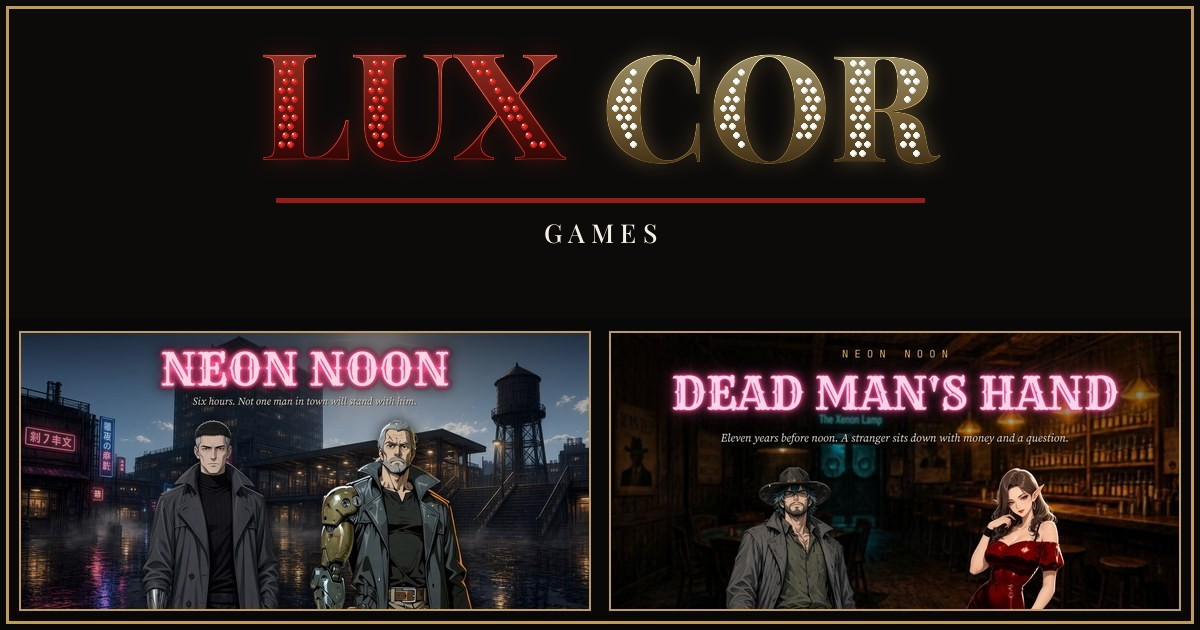
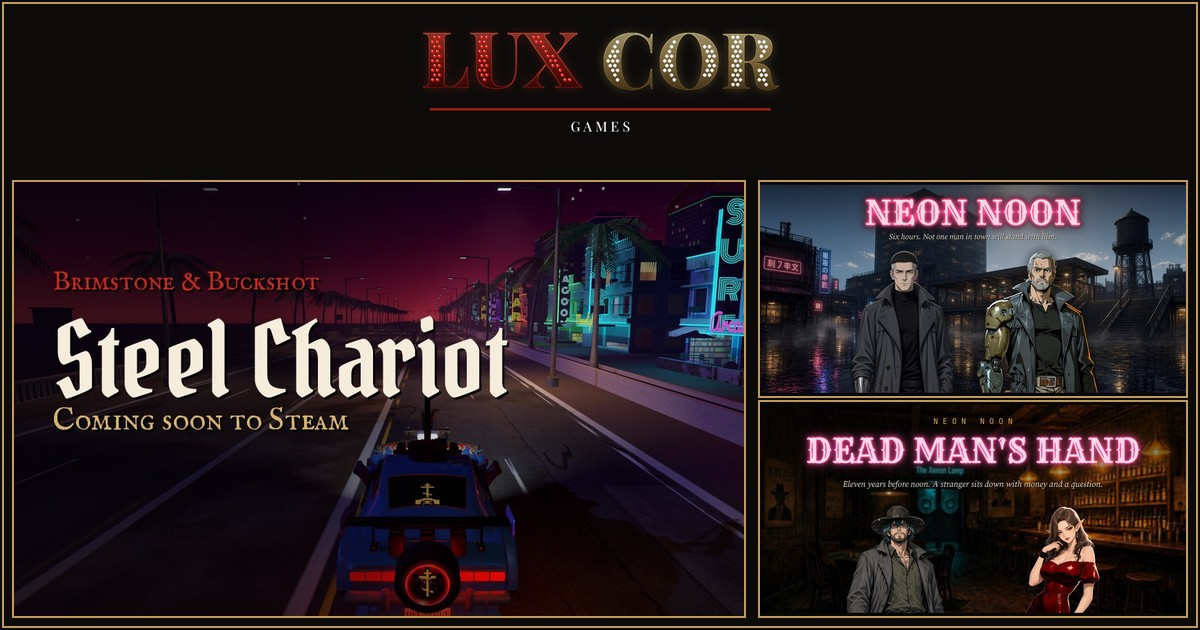
Home share card features Steel Chariot (big, left) with Neon Noon and Dead Man's Hand; share tag bumped
Claude-Session: https://claude.ai/code/session_01PcS7mfbPEmVEGSSqDjLZ7v

diff --git a/no-people-no-stories.html b/no-people-no-stories.html
@@ -10,7 +10,7 @@
 <meta property="og:title" content="No People, No Stories · Lux Cor Games">
 <meta property="og:description" content="An endless liminal ASMR walk through empty places. Pools, garages, a night mall, an Egyptian temple, Neon Noon's rain-soaked Sundown. Nobody else is here. Free on Windows, Linux and Android.">
 <meta property="og:url" content="https://irlgames.github.io/no-people-no-stories.html">
-<meta property="og:image" content="https://irlgames.github.io/assets/img/og_npns.jpg?v=20261115">
+<meta property="og:image" content="https://irlgames.github.io/assets/img/og_npns.jpg?v=20261115b">
 <meta property="og:image:width" content="1200">
 <meta property="og:image:height" content="630">
 <meta property="og:image:alt" content="No People, No Stories · Lux Cor Games">
@@ -19,7 +19,7 @@
 <meta name="twitter:site" content="@LuxCorMedia">
 <meta name="twitter:title" content="No People, No Stories · Lux Cor Games">
 <meta name="twitter:description" content="An endless liminal ASMR walk through empty places. Pools, garages, a night mall, an Egyptian temple, Neon Noon's rain-soaked Sundown. Nobody else is here. Free on Windows, Linux and Android.">
-<meta name="twitter:image" content="https://irlgames.github.io/assets/img/og_npns.jpg?v=20261115">
+<meta name="twitter:image" content="https://irlgames.github.io/assets/img/og_npns.jpg?v=20261115b">
 <meta name="twitter:image:alt" content="No People, No Stories · Lux Cor Games">
 <link rel="canonical" href="https://irlgames.github.io/no-people-no-stories.html">
 <meta name="theme-color" content="#941D16">

diff --git a/steel-chariot.html b/steel-chariot.html
@@ -10,7 +10,7 @@
 <meta property="og:title" content="Brimstone & Buckshot: Steel Chariot · Lux Cor Games">
 <meta property="og:description" content="Zombie-smashing car combat. Weld a cross to the plow, fill the tank with Holy Fire, and drive through the damned. Coming soon to Steam for Windows, Linux and SteamOS.">
 <meta property="og:url" content="https://irlgames.github.io/steel-chariot.html">
-<meta property="og:image" content="https://irlgames.github.io/assets/img/og_bb.jpg?v=20261115">
+<meta property="og:image" content="https://irlgames.github.io/assets/img/og_bb.jpg?v=20261115b">
 <meta property="og:image:width" content="1200">
 <meta property="og:image:height" content="630">
 <meta property="og:image:alt" content="Brimstone & Buckshot: Steel Chariot · Lux Cor Games">
@@ -19,7 +19,7 @@
 <meta name="twitter:site" content="@LuxCorMedia">
 <meta name="twitter:title" content="Brimstone & Buckshot: Steel Chariot · Lux Cor Games">
 <meta name="twitter:description" content="Zombie-smashing car combat. Weld a cross to the plow, fill the tank with Holy Fire, and drive through the damned. Coming soon to Steam for Windows, Linux and SteamOS.">
-<meta name="twitter:image" content="https://irlgames.github.io/assets/img/og_bb.jpg?v=20261115">
+<meta name="twitter:image" content="https://irlgames.github.io/assets/img/og_bb.jpg?v=20261115b">
 <meta name="twitter:image:alt" content="Brimstone & Buckshot: Steel Chariot · Lux Cor Games">
 <link rel="canonical" href="https://irlgames.github.io/steel-chariot.html">
 <meta name="theme-color" content="#941D16">

diff --git a/dead-mans-hand.html b/dead-mans-hand.html
@@ -10,7 +10,7 @@
 <meta property="og:title" content="Neon Noon: Dead Man's Hand · Lux Cor Games">
 <meta property="og:description" content="The poker prequel to Neon Noon. Eleven years before noon. A stranger sits down with money and a question. On Google Play now, coming to Steam.">
 <meta property="og:url" content="https://irlgames.github.io/dead-mans-hand.html">
-<meta property="og:image" content="https://irlgames.github.io/assets/img/og_dmh.jpg?v=20261115">
+<meta property="og:image" content="https://irlgames.github.io/assets/img/og_dmh.jpg?v=20261115b">
 <meta property="og:image:width" content="1200">
 <meta property="og:image:height" content="630">
 <meta property="og:image:alt" content="Neon Noon: Dead Man's Hand · Lux Cor Games">
@@ -19,7 +19,7 @@
 <meta name="twitter:site" content="@LuxCorMedia">
 <meta name="twitter:title" content="Neon Noon: Dead Man's Hand · Lux Cor Games">
 <meta name="twitter:description" content="The poker prequel to Neon Noon. Eleven years before noon. A stranger sits down with money and a question. On Google Play now, coming to Steam.">
-<meta name="twitter:image" content="https://irlgames.github.io/assets/img/og_dmh.jpg?v=20261115">
+<meta name="twitter:image" content="https://irlgames.github.io/assets/img/og_dmh.jpg?v=20261115b">
 <meta name="twitter:image:alt" content="Neon Noon: Dead Man's Hand · Lux Cor Games">
 <link rel="canonical" href="https://irlgames.github.io/dead-mans-hand.html">
 <meta name="theme-color" content="#941D16">

diff --git a/index.html b/index.html
@@ -10,7 +10,7 @@
 <meta property="og:title" content="Lux Cor Games">
 <meta property="og:description" content="Games by Lux Cor Games: Brimstone & Buckshot: Steel Chariot, coming soon to Steam; Neon Noon and Neon Noon: Dead Man's Hand, on Google Play now and coming to Steam, and No People, No Stories, free now.">
 <meta property="og:url" content="https://irlgames.github.io/">
-<meta property="og:image" content="https://irlgames.github.io/assets/img/og_home.jpg?v=20261115">
+<meta property="og:image" content="https://irlgames.github.io/assets/img/og_home.jpg?v=20261115b">
 <meta property="og:image:width" content="1200">
 <meta property="og:image:height" content="630">
 <meta property="og:image:alt" content="Lux Cor Games">
@@ -19,7 +19,7 @@
 <meta name="twitter:site" content="@LuxCorMedia">
 <meta name="twitter:title" content="Lux Cor Games">
 <meta name="twitter:description" content="Games by Lux Cor Games: Brimstone & Buckshot: Steel Chariot, coming soon to Steam; Neon Noon and Neon Noon: Dead Man's Hand, on Google Play now and coming to Steam, and No People, No Stories, free now.">
-<meta name="twitter:image" content="https://irlgames.github.io/assets/img/og_home.jpg?v=20261115">
+<meta name="twitter:image" content="https://irlgames.github.io/assets/img/og_home.jpg?v=20261115b">
 <meta name="twitter:image:alt" content="Lux Cor Games">
 <link rel="canonical" href="https://irlgames.github.io/">
 <meta name="theme-color" content="#941D16">

diff --git a/about.html b/about.html
@@ -10,7 +10,7 @@
 <meta property="og:title" content="About · Lux Cor Games">
 <meta property="og:description" content="About Lux Cor Games, an American indie studio of gamers making the games we want to play: what we've made so far, what's next and how we work.">
 <meta property="og:url" content="https://irlgames.github.io/about.html">
-<meta property="og:image" content="https://irlgames.github.io/assets/img/og_home.jpg?v=20261115">
+<meta property="og:image" content="https://irlgames.github.io/assets/img/og_home.jpg?v=20261115b">
 <meta property="og:image:width" content="1200">
 <meta property="og:image:height" content="630">
 <meta property="og:image:alt" content="About · Lux Cor Games">
@@ -19,7 +19,7 @@
 <meta name="twitter:site" content="@LuxCorMedia">
 <meta name="twitter:title" content="About · Lux Cor Games">
 <meta name="twitter:description" content="About Lux Cor Games, an American indie studio of gamers making the games we want to play: what we've made so far, what's next and how we work.">
-<meta name="twitter:image" content="https://irlgames.github.io/assets/img/og_home.jpg?v=20261115">
+<meta name="twitter:image" content="https://irlgames.github.io/assets/img/og_home.jpg?v=20261115b">
 <meta name="twitter:image:alt" content="About · Lux Cor Games">
 <link rel="canonical" href="https://irlgames.github.io/about.html">
 <meta name="theme-color" content="#941D16">

diff --git a/neon-noon.html b/neon-noon.html
@@ -10,7 +10,7 @@
 <meta property="og:title" content="Neon Noon · Lux Cor Games">
 <meta property="og:description" content="A cyberpunk High Noon visual novel. Six hours. Not one man in town will stand with him. On Google Play now, coming to Steam.">
 <meta property="og:url" content="https://irlgames.github.io/neon-noon.html">
-<meta property="og:image" content="https://irlgames.github.io/assets/img/og_nn.jpg?v=20261115">
+<meta property="og:image" content="https://irlgames.github.io/assets/img/og_nn.jpg?v=20261115b">
 <meta property="og:image:width" content="1200">
 <meta property="og:image:height" content="630">
 <meta property="og:image:alt" content="Neon Noon · Lux Cor Games">
@@ -19,7 +19,7 @@
 <meta name="twitter:site" content="@LuxCorMedia">
 <meta name="twitter:title" content="Neon Noon · Lux Cor Games">
 <meta name="twitter:description" content="A cyberpunk High Noon visual novel. Six hours. Not one man in town will stand with him. On Google Play now, coming to Steam.">
-<meta name="twitter:image" content="https://irlgames.github.io/assets/img/og_nn.jpg?v=20261115">
+<meta name="twitter:image" content="https://irlgames.github.io/assets/img/og_nn.jpg?v=20261115b">
 <meta name="twitter:image:alt" content="Neon Noon · Lux Cor Games">
 <link rel="canonical" href="https://irlgames.github.io/neon-noon.html">
 <meta name="theme-color" content="#941D16">

diff --git a/ai-policy.html b/ai-policy.html
@@ -10,7 +10,7 @@
 <meta property="og:title" content="AI policy · Lux Cor Games">
 <meta property="og:description" content="How Lux Cor Games uses AI: fun comes first, our assets are made in-house, and what we don't make ourselves.">
 <meta property="og:url" content="https://irlgames.github.io/ai-policy.html">
-<meta property="og:image" content="https://irlgames.github.io/assets/img/og_home.jpg?v=20261115">
+<meta property="og:image" content="https://irlgames.github.io/assets/img/og_home.jpg?v=20261115b">
 <meta property="og:image:width" content="1200">
 <meta property="og:image:height" content="630">
 <meta property="og:image:alt" content="AI policy · Lux Cor Games">
@@ -19,7 +19,7 @@
 <meta name="twitter:site" content="@LuxCorMedia">
 <meta name="twitter:title" content="AI policy · Lux Cor Games">
 <meta name="twitter:description" content="How Lux Cor Games uses AI: fun comes first, our assets are made in-house, and what we don't make ourselves.">
-<meta name="twitter:image" content="https://irlgames.github.io/assets/img/og_home.jpg?v=20261115">
+<meta name="twitter:image" content="https://irlgames.github.io/assets/img/og_home.jpg?v=20261115b">
 <meta name="twitter:image:alt" content="AI policy · Lux Cor Games">
 <link rel="canonical" href="https://irlgames.github.io/ai-policy.html">
 <meta name="theme-color" content="#941D16">

diff --git a/privacy.html b/privacy.html
@@ -10,7 +10,7 @@
 <meta property="og:title" content="Privacy Policy · Lux Cor Games">
 <meta property="og:description" content="Privacy policy for Lux Cor Games games.">
 <meta property="og:url" content="https://irlgames.github.io/privacy.html">
-<meta property="og:image" content="https://irlgames.github.io/assets/img/og_home.jpg?v=20261115">
+<meta property="og:image" content="https://irlgames.github.io/assets/img/og_home.jpg?v=20261115b">
 <meta property="og:image:width" content="1200">
 <meta property="og:image:height" content="630">
 <meta property="og:image:alt" content="Privacy Policy · Lux Cor Games">
@@ -19,7 +19,7 @@
 <meta name="twitter:site" content="@LuxCorMedia">
 <meta name="twitter:title" content="Privacy Policy · Lux Cor Games">
 <meta name="twitter:description" content="Privacy policy for Lux Cor Games games.">
-<meta name="twitter:image" content="https://irlgames.github.io/assets/img/og_home.jpg?v=20261115">
+<meta name="twitter:image" content="https://irlgames.github.io/assets/img/og_home.jpg?v=20261115b">
 <meta name="twitter:image:alt" content="Privacy Policy · Lux Cor Games">
 <link rel="canonical" href="https://irlgames.github.io/privacy.html">
 <meta name="theme-color" content="#941D16">

diff --git a/thanks.html b/thanks.html
@@ -10,7 +10,7 @@
 <meta property="og:title" content="Thank you · Lux Cor Games">
 <meta property="og:description" content="Thank you for supporting Lux Cor Games.">
 <meta property="og:url" content="https://irlgames.github.io/thanks.html">
-<meta property="og:image" content="https://irlgames.github.io/assets/img/og_home.jpg?v=20261115">
+<meta property="og:image" content="https://irlgames.github.io/assets/img/og_home.jpg?v=20261115b">
 <meta property="og:image:width" content="1200">
 <meta property="og:image:height" content="630">
 <meta property="og:image:alt" content="Thank you · Lux Cor Games">
@@ -19,7 +19,7 @@
 <meta name="twitter:site" content="@LuxCorMedia">
 <meta name="twitter:title" content="Thank you · Lux Cor Games">
 <meta name="twitter:description" content="Thank you for supporting Lux Cor Games.">
-<meta name="twitter:image" content="https://irlgames.github.io/assets/img/og_home.jpg?v=20261115">
+<meta name="twitter:image" content="https://irlgames.github.io/assets/img/og_home.jpg?v=20261115b">
 <meta name="twitter:image:alt" content="Thank you · Lux Cor Games">
 <link rel="canonical" href="https://irlgames.github.io/thanks.html">
 <meta name="theme-color" content="#941D16">

diff --git a/support.html b/support.html
@@ -10,7 +10,7 @@
 <meta property="og:title" content="Support · Lux Cor Games">
 <meta property="og:description" content="Help and contact for Lux Cor Games games.">
 <meta property="og:url" content="https://irlgames.github.io/support.html">
-<meta property="og:image" content="https://irlgames.github.io/assets/img/og_home.jpg?v=20261115">
+<meta property="og:image" content="https://irlgames.github.io/assets/img/og_home.jpg?v=20261115b">
 <meta property="og:image:width" content="1200">
 <meta property="og:image:height" content="630">
 <meta property="og:image:alt" content="Support · Lux Cor Games">
@@ -19,7 +19,7 @@
 <meta name="twitter:site" content="@LuxCorMedia">
 <meta name="twitter:title" content="Support · Lux Cor Games">
 <meta name="twitter:description" content="Help and contact for Lux Cor Games games.">
-<meta name="twitter:image" content="https://irlgames.github.io/assets/img/og_home.jpg?v=20261115">
+<meta name="twitter:image" content="https://irlgames.github.io/assets/img/og_home.jpg?v=20261115b">
 <meta name="twitter:image:alt" content="Support · Lux Cor Games">
 <link rel="canonical" href="https://irlgames.github.io/support.html">
 <meta name="theme-color" content="#941D16">

diff --git a/build.py b/build.py
@@ -26,7 +26,7 @@ SITE = "https://irlgames.github.io/"
 
 # share-card cache buster (owner 2026-11-15: "teh embed for Discord and stuff still say IRL games" - the og images were redrawn for
 # Lux Cor under the same names, and Discord / X keep the old picture per image URL): bump OG_V whenever a share image changes
-OG_V = "20261115"
+OG_V = "20261115b"
 
 def page(name, title, desc, body, current, og="og_home.jpg"):
     nav = "".join(f'<a href="{h}"{" aria-current=\"page\"" if k == current else ""}>{t}</a>'
